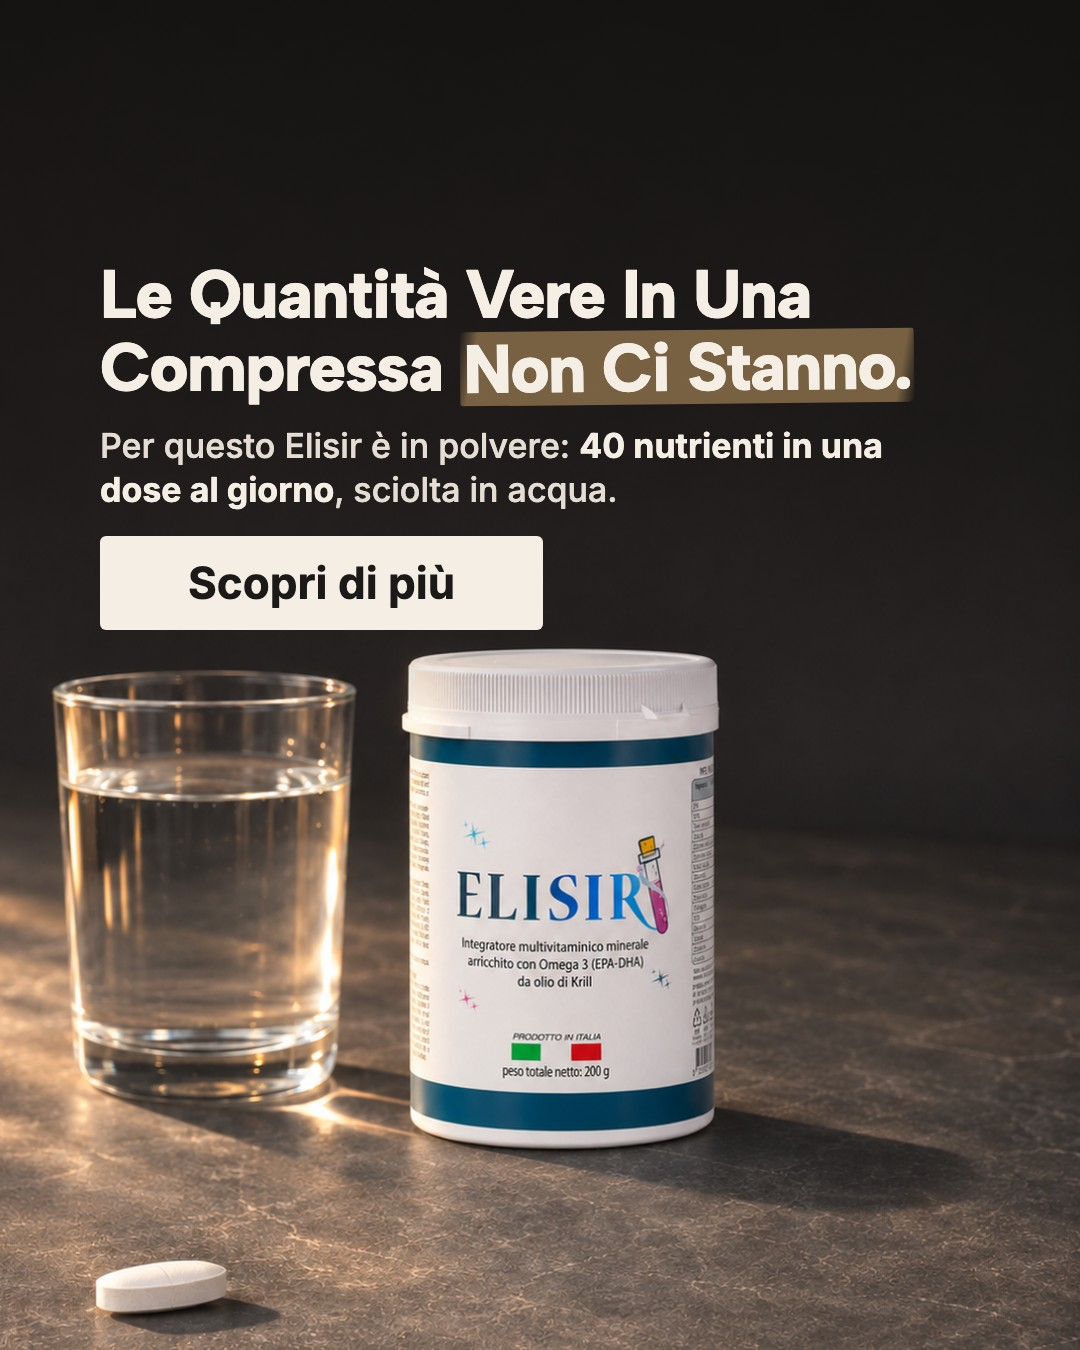
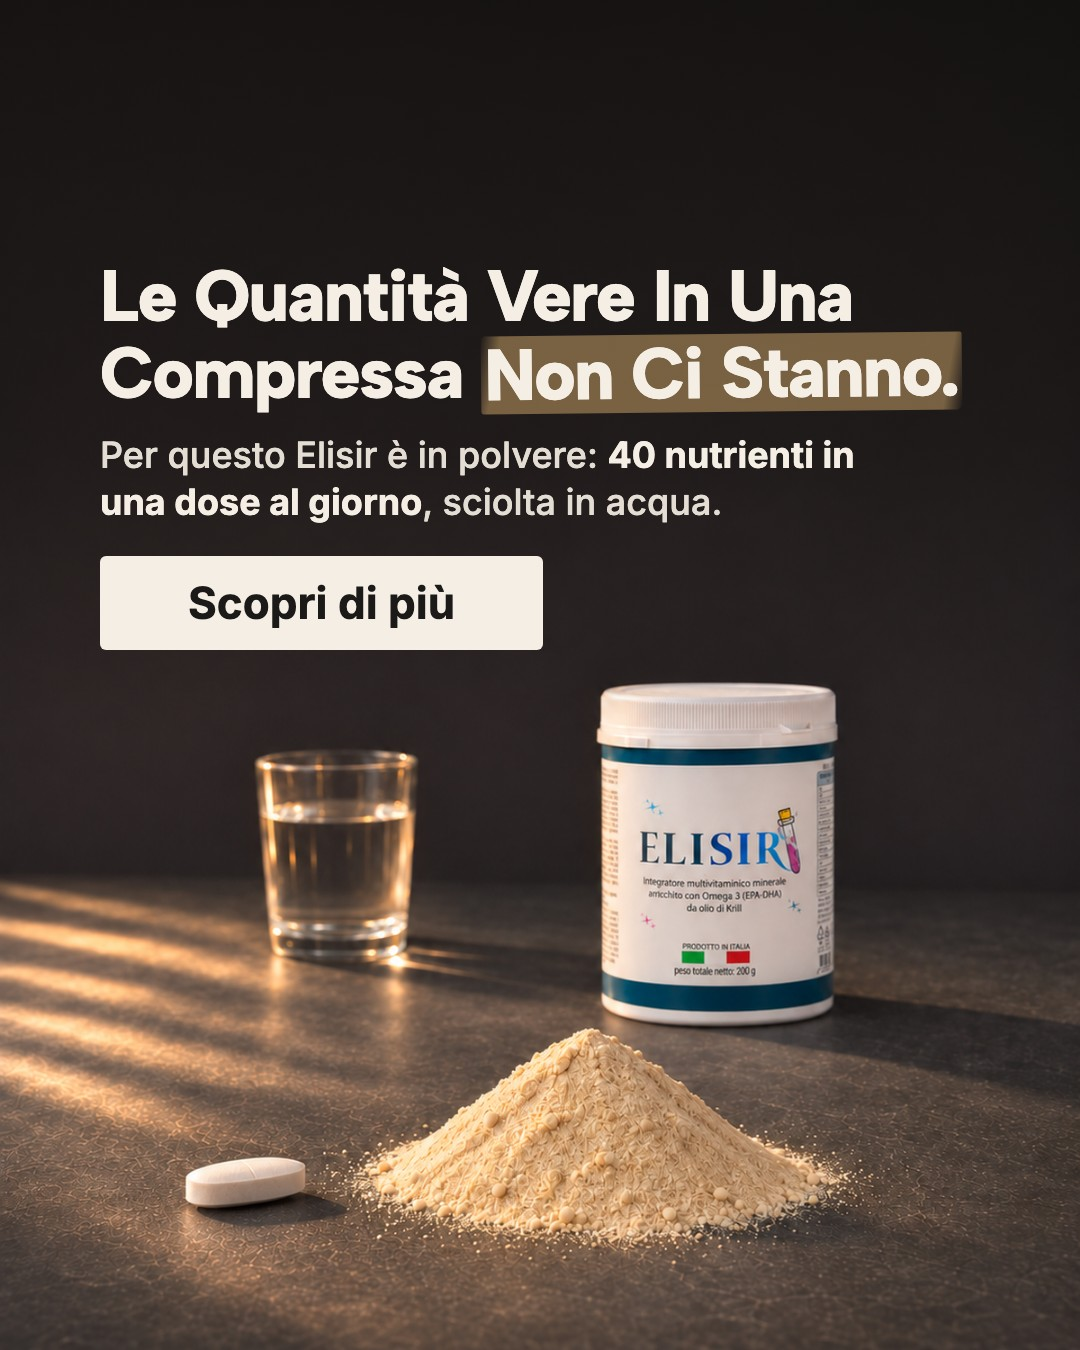
ads: batch #1010, #254 con la polvere di Elisir accanto alla compressa

diff --git a/ads/batch-1010.html b/ads/batch-1010.html
@@ -5,12 +5,13 @@
 <meta name="viewport" content="width=device-width,initial-scale=1">
 <meta name="robots" content="noindex,nofollow">
 <title>Batch #1010 · Multinutrienti, secondo giro · Launch kit</title>
-<!-- batch-1010.html v2 · 2026-11-10 · launch kit del batch #1010 Multinutrienti.
+<!-- batch-1010.html v3 · 2026-11-10 · launch kit del batch #1010 Multinutrienti.
      Generato da output/ads/batch-1010/kit/genera_kit.py: testi, titoli e descrizione riusati dal #1007
      (copy/testi-meta.md v1.5); hook, nomi ad e formati da 01-matrice.md v1.1 del #1010.
      Changelog:
        v1 · prima pubblicazione (FASE 5 Ads OS), come batch #1009
-       v2 · rinumerato #1010 (il numero del batch segue la decina delle ads); pagina spostata da batch-1009.html -->
+       v2 · rinumerato #1010 (il numero del batch segue la decina delle ads); pagina spostata da batch-1009.html
+       v3 · #254 con la foto nuova: compressa accanto a un mucchio di polvere di Elisir (richiesta di Andrea) -->
 <style>
 
   :root{--ground:#F4EFE4;--panel:#FBF8F1;--panel-2:#F0E9D9;--ink:#1B1712;--muted:#6E6455;--faint:#928871;--line:#E4DBC7;--accent:#8B6F47;--ok:#5E7A53;--warn:#A0622D;--shadow:0 1px 2px rgba(27,23,18,.06),0 8px 24px rgba(27,23,18,.06)}
@@ -262,7 +263,7 @@ Prima di scegliere, sulla pagina trovi il confronto con tre multivitaminici da f
         <tr><td class="cnum">#251</td><td><span class="aw">Solution</span></td><td class="hookcell">&quot;Coenzima Q10: Loro 4,5 mg, Elisir 200 mg.&quot;</td><td class="tcol">Verde bosco, Playfair Display: i due numeri in proporzione all’area</td><td class="tcol" style="white-space:nowrap">1:1 · 1080×1080</td></tr>
         <tr><td class="cnum">#252</td><td><span class="aw">Solution</span></td><td class="hookcell">&quot;Loro: Nessuno Dei Sei. Elisir: Tutti E Sei.&quot;</td><td class="tcol">Azzurro polvere, Familjen Grotesk, colonna Elisir in crema</td><td class="tcol" style="white-space:nowrap">1:1 · 1080×1080</td></tr>
         <tr><td class="cnum">#253</td><td><span class="aw">Solution</span></td><td class="hookcell">&quot;Per Il Magnesio Di Una Dose Di Elisir Servono Da 4 A 6 Compresse.&quot;</td><td class="tcol">Terracotta, Epilogue, compresse disegnate e barattolo grande</td><td class="tcol" style="white-space:nowrap">1:1 · 1080×1080</td></tr>
-        <tr><td class="cnum">#254</td><td><span class="aw">Solution</span></td><td class="hookcell">&quot;Le Quantità Vere In Una Compressa Non Ci Stanno.&quot;</td><td class="tcol">Foto AI: una compressa, il bicchiere e il barattolo in scala vera, Albert Sans</td><td class="tcol" style="white-space:nowrap">4:5 · 1080×1350</td></tr>
+        <tr><td class="cnum">#254</td><td><span class="aw">Solution</span></td><td class="hookcell">&quot;Le Quantità Vere In Una Compressa Non Ci Stanno.&quot;</td><td class="tcol">Foto AI: una compressa accanto a un mucchio di polvere di Elisir, barattolo dietro, Albert Sans</td><td class="tcol" style="white-space:nowrap">4:5 · 1080×1350</td></tr>
         <tr><td class="cnum">#255</td><td><span class="aw">Product</span></td><td class="hookcell">&quot;Elisir Costa Di Più: Paghiamo Le Forme Migliori.&quot;</td><td class="tcol">Bordeaux, Bricolage Grotesque, quattro forme loro → Elisir, barattolo grande</td><td class="tcol" style="white-space:nowrap">9:16 · 1080×1920</td></tr>
       </tbody>
     </table>
